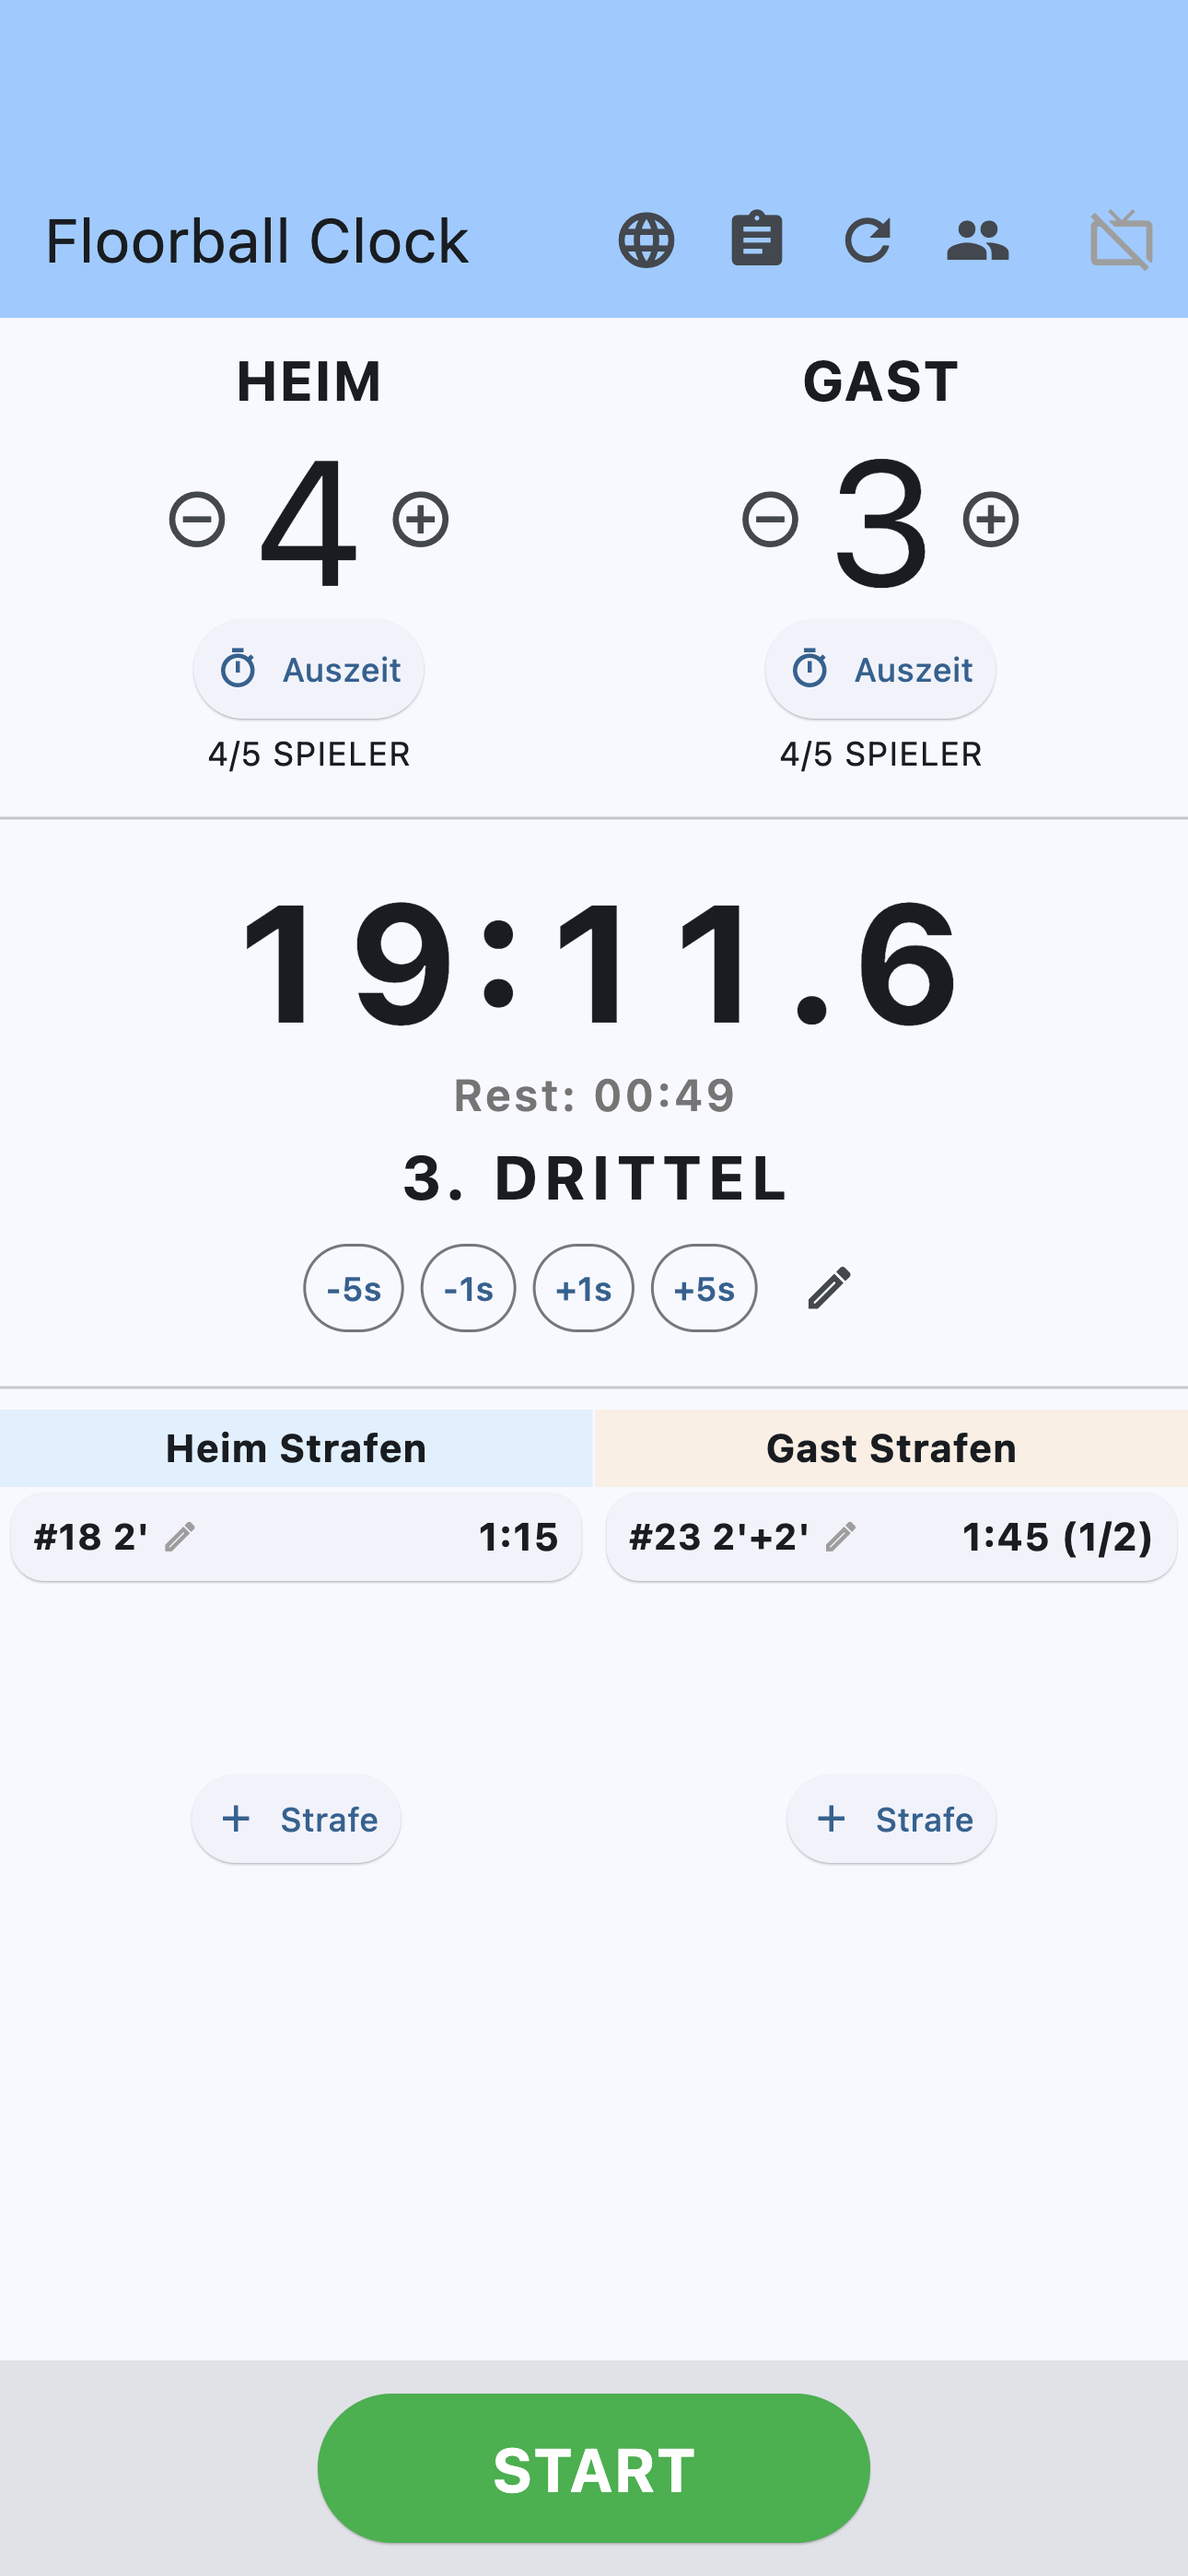
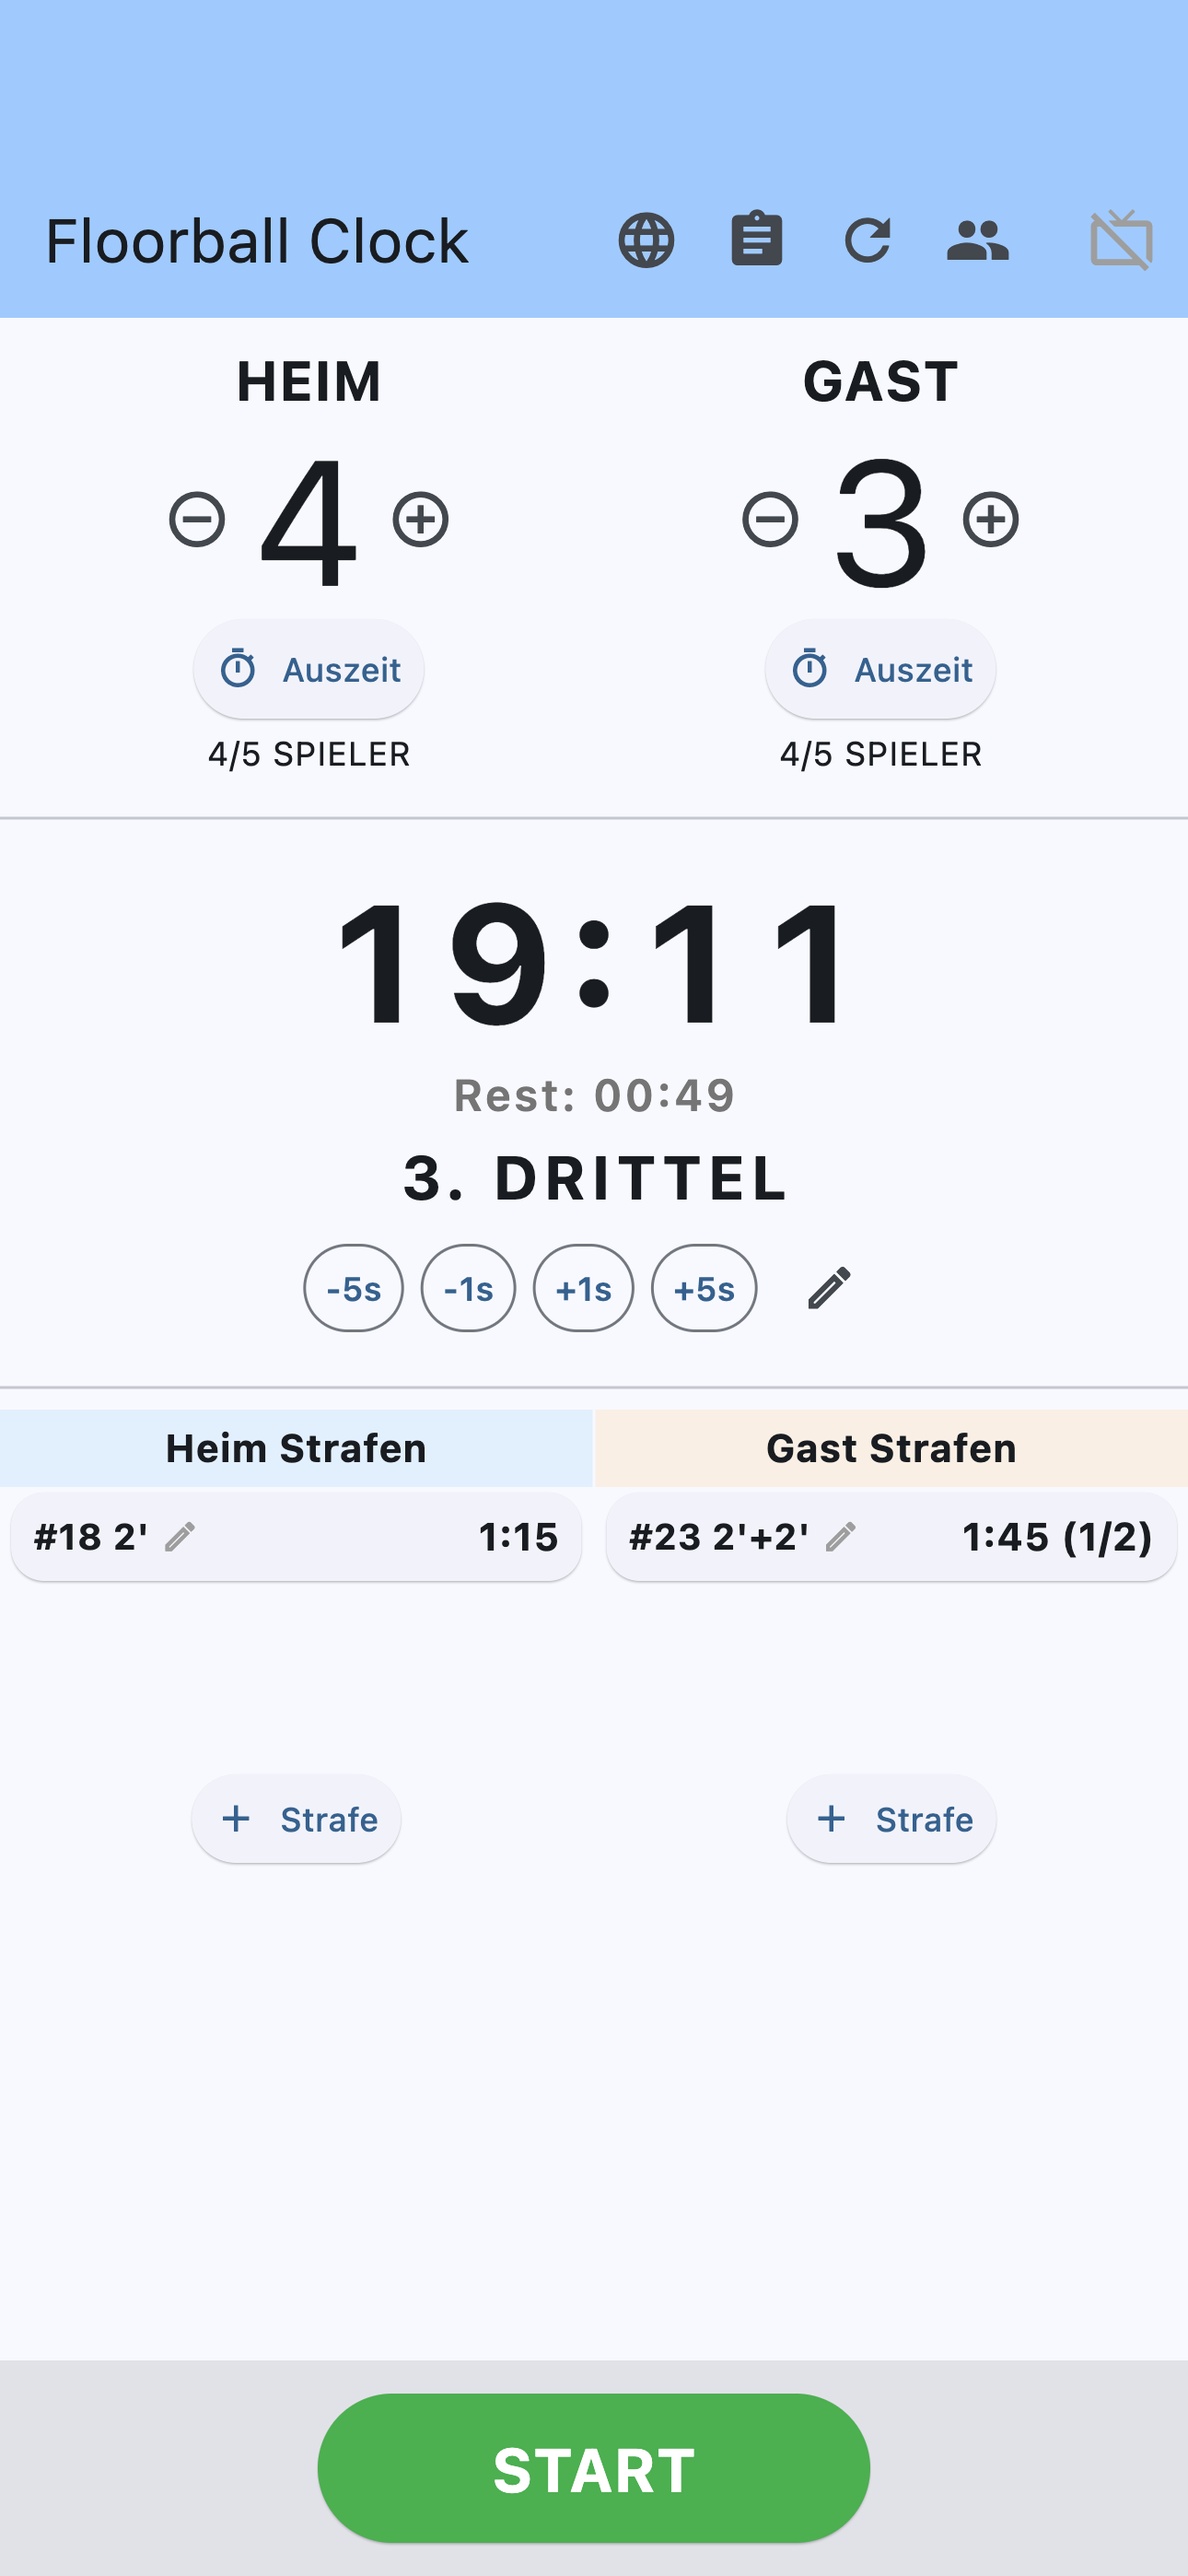
Update Floorball Clock website with latest screenshots, updated scoreboard design, and goal editing flow

Changed region(s): [[0.2171, 0.3423, 0.5271, 0.4045], [0.6512, 0.3423, 0.8062, 0.4045], [0.5581, 0.3423, 0.6202, 0.4045]]

diff --git a/floorball-clock.html b/floorball-clock.html
@@ -9,7 +9,7 @@
   <link rel="canonical" href="https://alwode.github.io/wodniok_website/floorball-clock.html">
   <meta property="og:title" content="Floorball Clock – Digitales Spielsekretariat & Hallenuhr (Regelwerk 2026)">
   <meta property="og:description" content="Professionelles digitales Spielsekretariat für Floorball & Unihockey nach dem Regelwerk 2026. Mit Zeitanpassung, 2' / 2'+2' / 10' Strafen-Logik, Hallen-Scoreboard und offiziellem PDF-Spielbericht.">
-  <meta property="og:image" content="https://alwode.github.io/wodniok_website/images/floorball-clock-screenshot-main.png?v=4">
+  <meta property="og:image" content="https://alwode.github.io/wodniok_website/images/floorball-clock-screenshot-main.png?v=5">
   <meta property="og:url" content="https://alwode.github.io/wodniok_website/floorball-clock.html">
   <meta property="og:type" content="website">
   <title>Floorball Clock – Digitales Spielsekretariat & Hallenuhr (Regelwerk 2026) | Alex Wodniok</title>
@@ -67,7 +67,7 @@
 
         <div class="hero-stats">
           <div class="stat-item">
-            <h4>00:59.9</h4>
+            <h4>00:05.0</h4>
             <p>Zehntelsekunden im Schlussspurt</p>
           </div>
           <div class="stat-item">
@@ -84,7 +84,7 @@
       <!-- App Screenshot Hero (iPhone) -->
       <div class="hero-visual">
         <div class="app-visual-wrapper">
-          <img src="images/floorball-clock-screenshot-main.png?v=4" alt="Floorball Clock iPhone Screenshot Hauptsteuerung mit Zeitanpassung" class="app-screenshot-hero" style="border-color: rgba(99, 102, 241, 0.4); box-shadow: var(--shadow-glow); max-width: 290px;">
+          <img src="images/floorball-clock-screenshot-main.png?v=5" alt="Floorball Clock iPhone Screenshot Hauptsteuerung mit Zeitanpassung" class="app-screenshot-hero" style="border-color: rgba(99, 102, 241, 0.4); box-shadow: var(--shadow-glow); max-width: 290px;">
         </div>
       </div>
     </div>
@@ -103,7 +103,7 @@
         <!-- Item 1 -->
         <div class="screenshot-gallery-item">
           <div class="screenshot-img-box">
-            <img src="images/floorball-clock-screenshot-main.png?v=4" alt="Floorball Clock iPhone Hauptsteuerung & Spielsekretariat mit Zeitanpassung">
+            <img src="images/floorball-clock-screenshot-main.png?v=5" alt="Floorball Clock iPhone Hauptsteuerung & Spielsekretariat mit Zeitanpassung">
           </div>
           <div class="screenshot-caption">⏱ Spielsekretariat & Feineinstellung (-5s..+5s)</div>
         </div>
@@ -111,7 +111,7 @@
         <!-- Item 2 -->
         <div class="screenshot-gallery-item">
           <div class="screenshot-img-box">
-            <img src="images/floorball-clock-screenshot-penalty.png?v=4" alt="Floorball Clock Strafen-Eingabedialog und Strafen-Korrektur">
+            <img src="images/floorball-clock-screenshot-penalty.png?v=5" alt="Floorball Clock Strafen-Eingabedialog und Strafen-Korrektur">
           </div>
           <div class="screenshot-caption">⚖ 2' / 2'+2' / 10' / MS Strafen & Korrektur</div>
         </div>
@@ -119,7 +119,7 @@
         <!-- Item 3 -->
         <div class="screenshot-gallery-item">
           <div class="screenshot-img-box">
-            <img src="images/floorball-clock-screenshot-setup.png?v=4" alt="Floorball Clock Spielregeln Großfeld 5v5 Kleinfeld 3v3 und Overtime">
+            <img src="images/floorball-clock-screenshot-setup.png?v=5" alt="Floorball Clock Spielregeln Großfeld 5v5 Kleinfeld 3v3 und Overtime">
           </div>
           <div class="screenshot-caption">⚙ Großfeld (5v5) / Kleinfeld (3v3) & Team-Vorlagen</div>
         </div>
@@ -127,7 +127,7 @@
         <!-- Item 4 -->
         <div class="screenshot-gallery-item">
           <div class="screenshot-img-box">
-            <img src="images/floorball-clock-screenshot-report.png?v=4" alt="Floorball Clock Offizieller Floorball Deutschland Spielbericht mit PDF-Export">
+            <img src="images/floorball-clock-screenshot-report.png?v=5" alt="Floorball Clock Offizieller Floorball Deutschland Spielbericht mit PDF-Export">
           </div>
           <div class="screenshot-caption">📄 Interaktiver Spielbericht & PDF-Vorschau</div>
         </div>
@@ -135,7 +135,7 @@
         <!-- Item 5 -->
         <div class="screenshot-gallery-item">
           <div class="screenshot-img-box">
-            <img src="images/floorball-clock-screenshot-scoreboard.png?v=4" alt="Floorball Clock Scoreboard Beamer Hallenanzeige Regel 201.1">
+            <img src="images/floorball-clock-screenshot-scoreboard.png?v=5" alt="Floorball Clock Scoreboard Beamer Hallenanzeige Regel 201.1">
           </div>
           <div class="screenshot-caption">🖥 Hallen-Scoreboard (Aufsteigend gem. Regel 201.1)</div>
         </div>
@@ -158,7 +158,7 @@
             <svg viewBox="0 0 24 24" fill="none" stroke="currentColor" stroke-width="2"><circle cx="12" cy="12" r="10"></circle><polyline points="12 6 12 12 16 14"></polyline></svg>
           </div>
           <h3>Spielzeit & Schnellanpassung</h3>
-          <p>Countdown-Timer mit Zehntelsekunden-Präzision in der letzten Minute (<code>0:59.9</code>), Schnelltasten (<code>-5s</code>, <code>-1s</code>, <code>+1s</code>, <code>+5s</code>) und manueller Uhrenkorrektur bei Schiedsrichter-Entscheidungen.</p>
+          <p>Countdown-Timer mit Zehntelsekunden-Präzision in den letzten 5 Sekunden des Spielabschnitts (<code>00:05.0</code>), Schnelltasten (<code>-5s</code>, <code>-1s</code>, <code>+1s</code>, <code>+5s</code>) und manueller Uhrenkorrektur bei Schiedsrichter-Entscheidungen.</p>
         </div>
 
         <div class="feature-card orange">

diff --git a/handbuch.html b/handbuch.html
@@ -131,7 +131,7 @@
               <div class="step-number">🔍</div>
               <div class="step-details">
                 <h4>Zehntelsekunden-Präzision im Schlussspurt</h4>
-                <p>In der letzten Spielminute eines Abschnitts (unter <code>01:00</code>) schaltet die Countdown-Anzeige am Sekretariatstisch automatisch auf <strong>Zehntelsekunden</strong> um (z. B. <code>00:59.9</code>), um exaktes Stoppen bei Pfiffen zu gewährleisten.</p>
+                <p>In den letzten 5 Sekunden eines regulären Spielabschnitts (ab <code>00:05.0</code> bis <code>00:00.0</code>) schaltet die Countdown-Anzeige am Sekretariatstisch automatisch auf <strong>Zehntelsekunden</strong> um, um exaktes Stoppen bei Pfiffen vor der Schlusssirene zu gewährleisten.</p>
               </div>
             </div>
 
@@ -170,7 +170,7 @@
 
         <!-- 4. Spielstand & Tore erfassen -->
         <article class="manual-section" id="tore">
-          <h2>4. Spielstand & Tore erfassen</h2>
+          <h2>4. Spielstand, Tore erfassen & Tore nachträglich bearbeiten</h2>
           <div class="manual-card">
             <p>
               Im oberen Bereich des Bedienfelds befindet sich die Spielstandssteuerung für Heim (HOME) und Gast (GUEST):
@@ -179,16 +179,16 @@
             <div class="step-block">
               <div class="step-number">+</div>
               <div class="step-details">
-                <h4>Toreingabe mit Torschütze & Assist</h4>
-                <p>Ein Klick auf das <strong>+ Symbol</strong> öffnet den Tordialog. Hier können Sie den <strong>Torschützen</strong> sowie den <strong>Vorlagengeber (Assist)</strong> anhand der Spielernummern aus dem Roster auswählen. Das Tor wird mit exakter Spielzeit im Ereignisprotokoll erfasst.</p>
+                <h4>Toreingabe mit Spielzeit-Auswahl, Torschütze & Assist</h4>
+                <p>Ein Klick auf das <strong>+ Symbol</strong> öffnet den Tordialog. Hier können Sie die exakte <strong>Spielzeit</strong> des Tores einstellen sowie den <strong>Torschützen</strong> und <strong>Vorlagengeber (Assist)</strong> anhand der Spielernummern aus dem Roster auswählen.</p>
               </div>
             </div>
 
             <div class="step-block">
               <div class="step-number">-</div>
               <div class="step-details">
-                <h4>Tor-Korrektur</h4>
-                <p>Wird ein Tor vom Schiedsrichtergespann aberkannt, reduziert das <strong>- Symbol</strong> den Spielstand und synchronisiert den Spielbericht.</p>
+                <h4>Tor-Korrektur mit Bestätigungsdialog</h4>
+                <p>Wird ein Tor vom Schiedsrichtergespann aberkannt, reduziert das <strong>- Symbol</strong> den Spielstand mit einer klaren Bestätigung (<em>„Tor löschen“</em>) und entfernt das letzte Tor sauber aus dem Spielbericht. Tore können zudem jederzeit im Spielberichtsbogen editiert oder gelöscht werden.</p>
               </div>
             </div>
 
